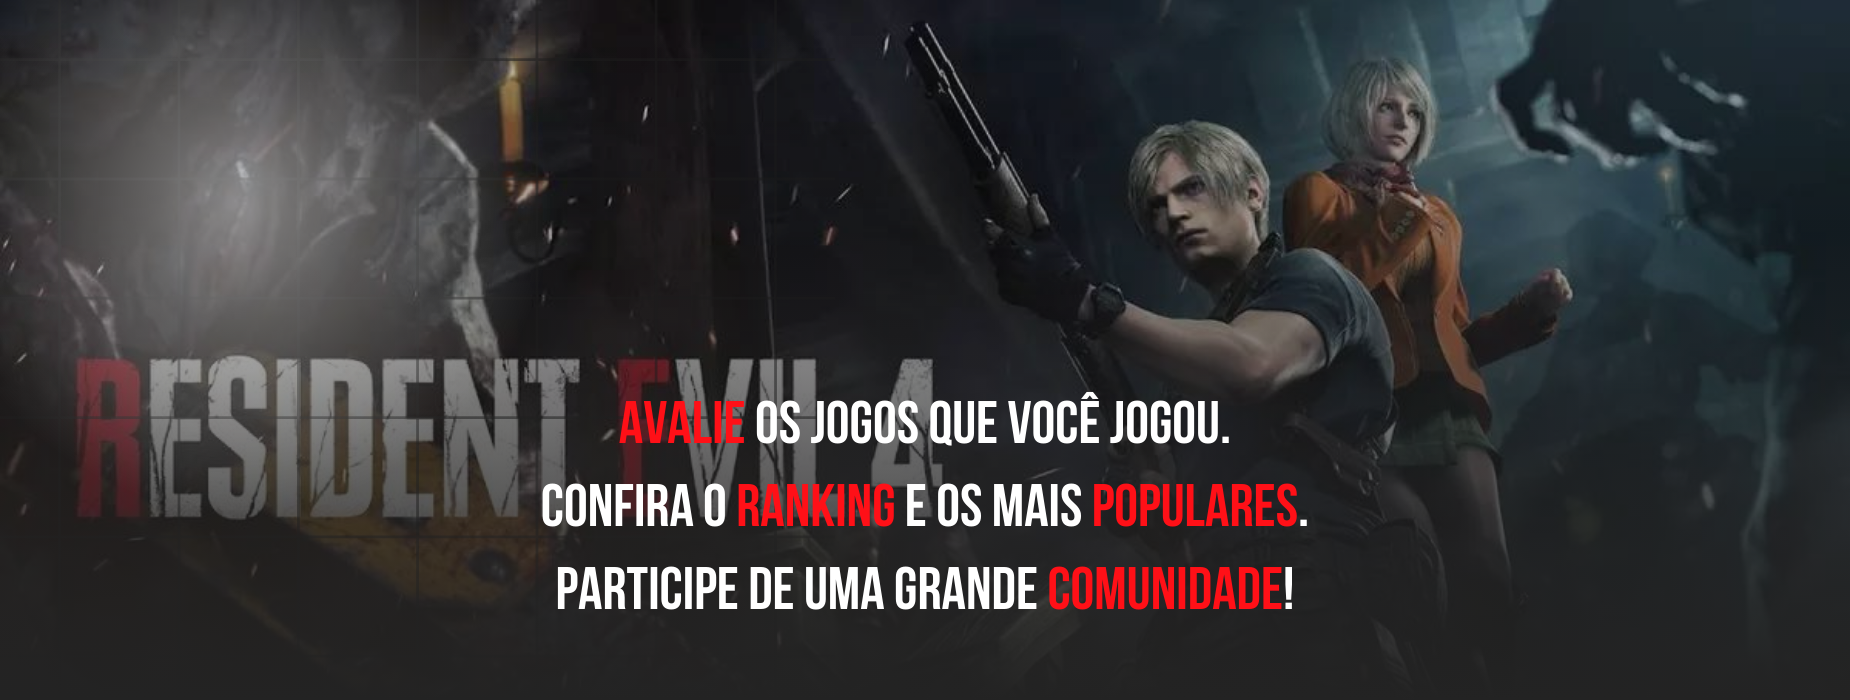
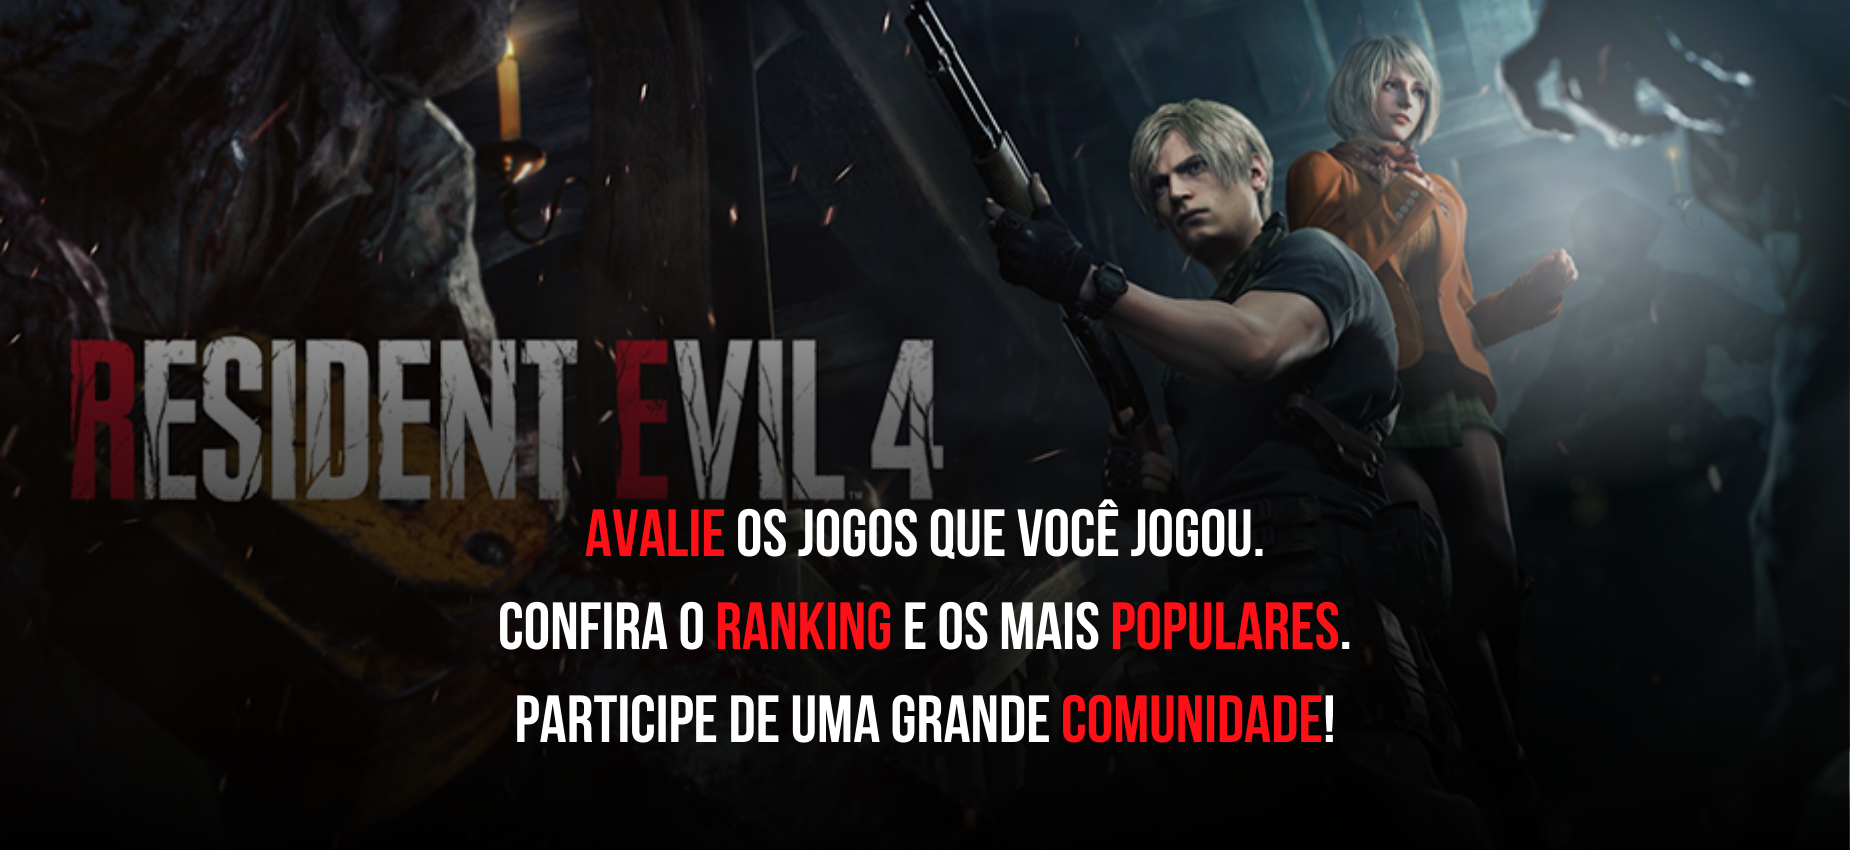
Atualizando imagens carrossel

diff --git a/static/style/style.css b/static/style/style.css
@@ -672,12 +672,11 @@ a:hover, button:hover {
 }/*# sourceMappingURL=style.css.map */
 
 .carousel-item img{
-  width: 100%;
-  height: 100vh;
   object-fit: cover;
+  height: 870px;
 }
 
 .main-carousel {
   overflow: hidden;
-  margin: 0;
+  margin: 0 auto;
 }
